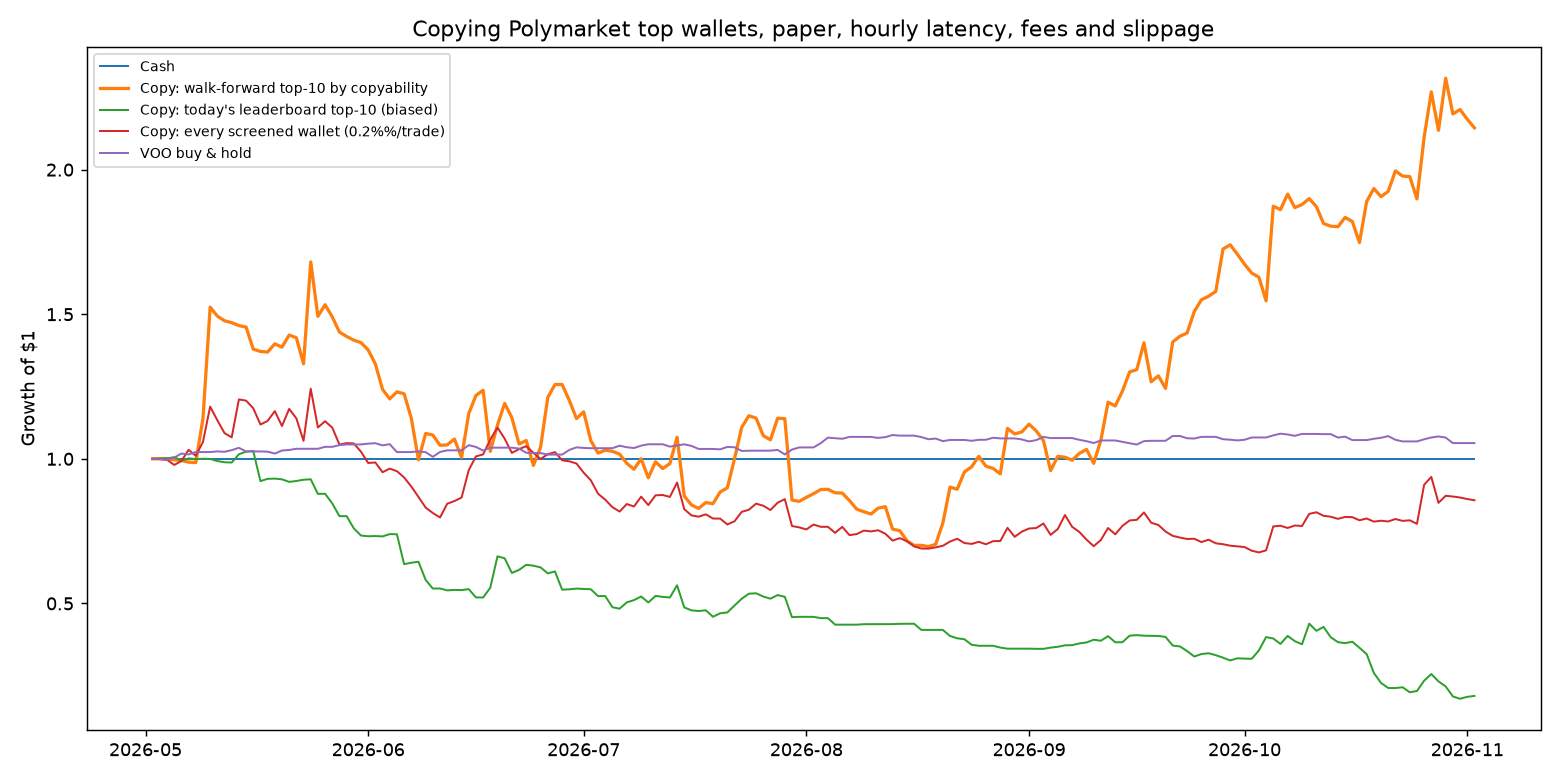
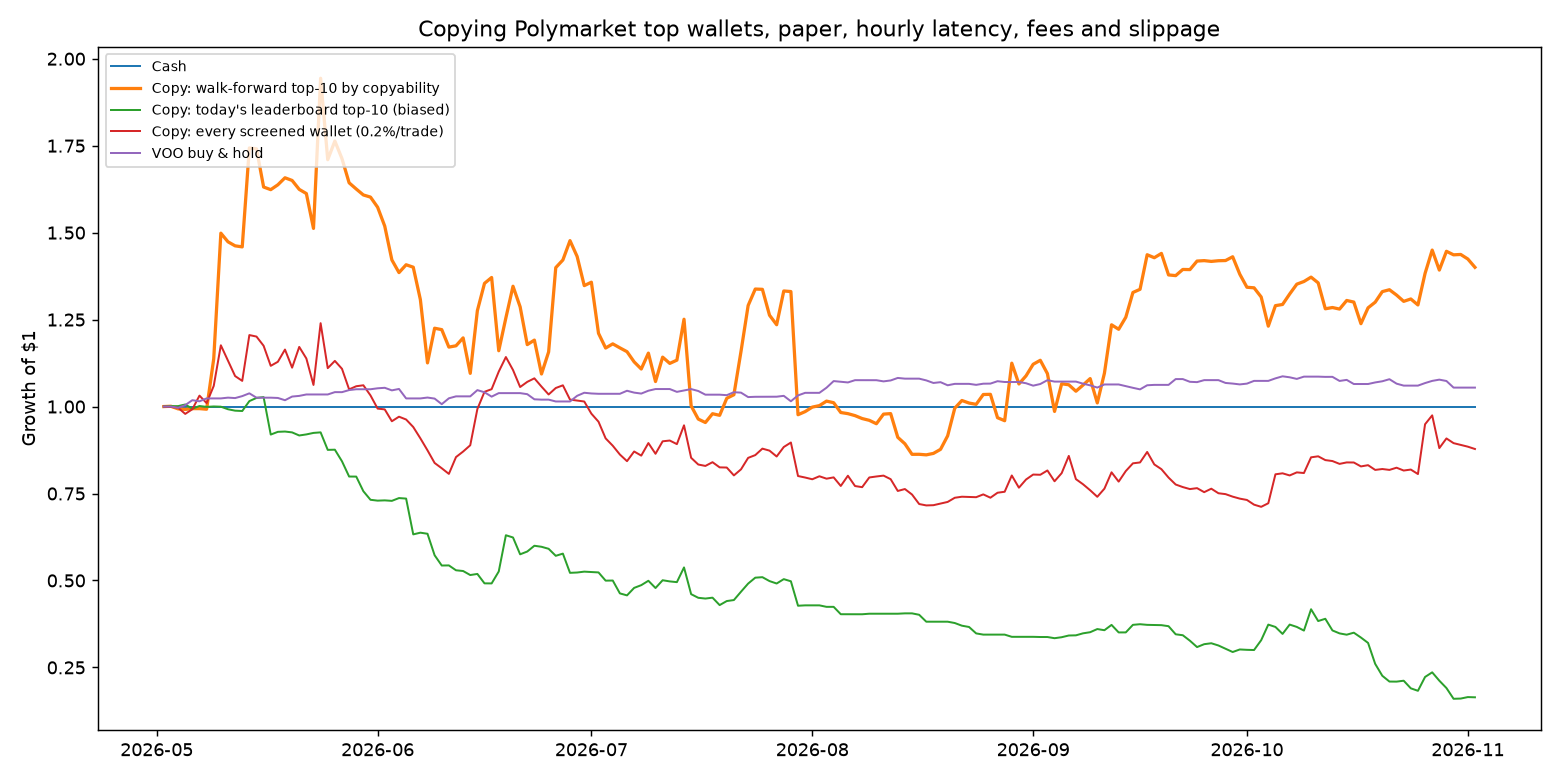
Document the copy-trading pipeline step by step and refresh backtest with the no-chase rule

diff --git a/09-python-polymarket-copy-trader/run_backtest.py b/09-python-polymarket-copy-trader/run_backtest.py
@@ -26,6 +26,7 @@ import pandas as pd
 from polycopy.api import PolymarketAPI
 from polycopy.backtest import PriceSource, simulate, summarize, format_summary, month_starts
 from polycopy.copy import CopyConfig, DEFAULT, Portfolio, LeaderBook
+from polycopy.analysis import wallet_profile, profile_line
 from polycopy.selection import score_wallets, choose, scores_table
 from polycopy.universe import build_universe, screen_universe, fetch_history
 
@@ -157,8 +158,11 @@ def main() -> None:
     for p in picks:
         print(f"   {p['month']}  scored {p['scored']:3d}  copied {p['copied_buys']:4d} buys  equity {p['equity_end']:>9,.0f}  follow: {', '.join(p['followed'])}")
     scores = score_wallets(histories, names, markets, prices, cfg, end_ts - cfg.lookback_days * 86400, end_ts, api=api)
+    today = scores_table(scores, 15)
+    today["their record (90d)"] = [profile_line(wallet_profile(api, [t for t in histories[s.wallet] if t["timestamp"] >= end_ts - cfg.lookback_days * 86400], markets))
+                                   for s in scores[:15]]
     print("\n  Who we would follow today (trailing %d days):" % cfg.lookback_days)
-    print(scores_table(scores, 15).to_string(index=False, float_format=lambda v: f"{v:.3f}"))
+    print(today.to_string(index=False, float_format=lambda v: f"{v:.3f}"))
 
     RESULTS.mkdir(exist_ok=True)
     md = ["# Polymarket copy-trading walk-forward backtest", "",
@@ -172,7 +176,9 @@ def main() -> None:
           "Skipped leader trades: " + ", ".join(f"{k} {v}" for k, v in sorted(skip_tot.items(), key=lambda kv: -kv[1])), "",
           "## Followed wallets by month", "", "| month | wallets scored | copied buys | equity at month end | followed |", "|---|---|---|---|---|",
           *[f"| {p['month']} | {p['scored']} | {p['copied_buys']} | {p['equity_end']:,.0f} | {', '.join(p['followed'])} |" for p in picks], "",
-          "## Who the rules would follow today", "", md_table(scores_table(scores, 15)), ""]
+          "## Who the rules would follow today", "",
+          "'copy return' is what copying the wallet under our rules would have made; 'their record' is what the wallet itself did.", "",
+          md_table(today), ""]
     (RESULTS / "polymarket_backtest.md").write_text("\n".join(md))
     pd.DataFrame(curves).to_csv(RESULTS / "polymarket_equity.csv")
     json.dump([f.__dict__ for f in wf_fills], open(RESULTS / "polymarket_fills.json", "w"), default=str)

diff --git a/09-python-polymarket-copy-trader/README.md b/09-python-polymarket-copy-trader/README.md
@@ -9,6 +9,20 @@ needs no keys and no money, and never places a real order.
 Sibling of the [TVM / Kronos stock paper trader](../08-python-paper-trading-strategy/);
 it reuses that project's notification channels.
 
+## The "Claude finds the Polymarket wallets that win" pipeline, built honestly
+
+The viral version of this idea has six screens. All six exist here, with
+real data behind them:
+
+| The post says | What this project does | Where |
+|---|---|---|
+| **Finds top wallets** - ranks public wallets by profit, win rate, consistency | Pulls the month / week / all-time / politics / sports leaderboards, screens out bots (>100 trades/day) and dormant accounts, then ranks by *copyability* (see below). Profit, win rate and consistency are computed and shown, but they are not the ranking key, because they are the leader's numbers, not yours | `polycopy/universe.py`, `polycopy/selection.py` |
+| **Studies how they trade** - history, win rate, position sizing, favourite markets | Per-wallet profile from their full trade history: win rate over decided markets, realised PnL, average position, profitable months, category mix (politics / sports / crypto / ...), biggest markets | `polycopy/analysis.py`; the "Their record" column of every report |
+| **Watches when they make a move** - new position / closed position feed | Every hour the job reads each followed wallet's new trades and logs them as *new position / added / reduced / closed*, with what we did about each one | `polycopy/paper.py` activity monitor; `state/activity.jsonl` |
+| **Doesn't copy every trade** - liquidity, volume, price change, size checks | Every BUY goes through an 11-point review: leader size, market type, price range, freshness, time to resolution, market liquidity, 24h volume, spread, price move since the leader's fill (no chasing), current price, our position-size room. The report shows each check's value and pass/fail | `polycopy/review.py`; "Trade review" section of the report |
+| **Copies approved positions** into a paper account | Fills walk the live order book, pay the market's taker fee, are sized at 1% of equity but never more than the leader's own notional; exits mirror the leader's; resolutions pay $1 / $0 | `polycopy/copy.py`, `polycopy/paper.py` |
+| **$2,000 -> $12,000 in one night** | No. See the backtest below for what the same idea does over six months with real prices, latency and fees. A 6x overnight is a creator-reported screenshot, not a strategy property; a backtest that produced numbers like that here turned out to be a fill-model bug | `results/polymarket_backtest.md` |
+
 ## The idea, and why naive copying loses
 
 Polymarket publishes every wallet's trades and a profit leaderboard, so
@@ -38,6 +52,8 @@ A wallet whose edge evaporates in an hour scores low no matter how rich it is.
 | Follow | top 10 by copyability score, re-picked monthly (weekly in the live job) | `copy return / max(2%, drawdown)` on the trailing 90 days |
 | Copy a BUY if | leader paid $25+, price in [0.03, 0.97], market ends 3h+ later, not an up/down or 5m/15m/1h market | skip dust, lottery tickets, near-certainties and markets we would enter after the fact |
 | Size | 1% of equity per copied buy, never more than the leader's own notional, max 5% of equity per market | we take at most the liquidity the leader took |
+| Don't chase | skip if the price is already more than 0.10 above the leader's fill | the edge was theirs at their price, not ours an hour later |
+| Live-only review | market liquidity >= $1,000, 24h volume >= $500, spread <= 0.05 | current values only exist for open markets, so the backtest cannot apply these; they only make the live account stricter |
 | Exit | mirror the fraction the leader sells; otherwise hold to resolution (paid $1 or $0) | copy the leader's exit decision, not our own |
 | Fill price | **backtest:** the worse of the leader's price and the first hourly print after 60 min, plus 0.01; **live:** walk the real order book | hourly prints of thin books can be absurd for a moment; assuming we filled there would turn the backtest into a lottery |
 
@@ -51,22 +67,25 @@ hourly price history for every market touched (fetched once, cached in
 
 | portfolio ($10,000 start) | total | vol | Sharpe | max DD |
 |---|---|---|---|---|
-| **Copy: walk-forward top-10 by copyability** | **+114%** | 128% | 1.80 | **-59%** |
-| Copy: today's leaderboard top-10 (knows who ended up rich) | -82% | 97% | -3.00 | -83% |
-| Copy: every screened wallet, 0.2% per trade | -14% | 74% | -0.05 | -46% |
+| **Copy: walk-forward top-10 by copyability** | **+40%** | 125% | 1.14 | **-56%** |
+| Copy: today's leaderboard top-10 (knows who ended up rich) | -84% | 97% | -3.20 | -84% |
+| Copy: every screened wallet, 0.2% per trade | -12% | 75% | 0.02 | -43% |
 | VOO buy & hold | +5% | 12% | 0.93 | -5% |
 
-1,930 copied buys, 744 positions carried to resolution (431 paid out), $2,070
-of fees on a $10k account.
+1,548 copied buys, 533 positions carried to resolution (293 paid out), $1,705
+of fees on a $10k account. Without the no-chasing rule (buy even if the price
+is already >0.10 above the leader's fill) the same run makes +114% with a
+-59% drawdown: the extra return comes from buying into news spikes, which
+worked in this window and is exactly the behaviour that eventually does not.
 
-**Read the +114% as "interesting", not as "expected".**
+**Read the +40% as "interesting", not as "expected".**
 
-- It is **lumpy**. The ten best positions made more than the whole net gain;
-  the single best was a leader putting $3,400 into *Russia x Ukraine ceasefire
-  by May 31* at 6 cents four days before it happened. We paid 7 cents. Five
-  of the top eight winners are geopolitical long shots like that.
-- It is **violent**. The account went $10k -> $15.8k -> $6.6k -> $20k, with
-  days of -25% and +34%. Max drawdown -59%. Scale `trade_fraction` down if that
+- It is **lumpy**. The ten best positions made several times the whole net
+  gain; the single best was a leader putting $3,400 into *Russia x Ukraine
+  ceasefire by May 31* at 6 cents four days before it happened. We paid 7
+  cents. Most of the top winners are geopolitical long shots like that.
+- It is **violent**. The account went $10k -> $17.8k -> $7.9k -> $12.8k, with
+  days of -27% and +32%. Max drawdown -56%. Scale `trade_fraction` down if that
   is not acceptable; the copied set is otherwise unchanged.
 - The **universe is survivor-biased**. Polymarket only publishes *today's*
   leaderboard, so even the walk-forward selection chooses among wallets that
@@ -99,8 +118,11 @@ runs the paper account on GitHub's servers, hourly.
    with the next hour; the first run picks the followed wallets, which takes
    a while (about 15 minutes of API paging, cached afterwards).
 3. **Done.** State lives on the `polymarket-copy-log` branch (`state.json`,
-   `fills.jsonl`); every Monday 06:00 UTC the followed set is re-picked; each
-   day after 20:00 UTC a status message goes out.
+   `fills.jsonl`, `activity.jsonl` with every leader trade seen and every
+   review); every Monday 06:00 UTC the followed set is re-picked; each day
+   after 20:00 UTC a status message goes out. Each run's page shows the
+   fills, the trade reviews (every check with its value), the hour's wallet
+   activity, open positions and the followed wallets' records.
 
 The daily message:
 
@@ -126,7 +148,7 @@ to see what that costs.
 ```bash
 cd 09-python-polymarket-copy-trader
 pip install -r requirements.txt
-python -m pytest -q                       # 19 tests, offline
+python -m pytest -q                       # 23 tests, offline
 
 python run_backtest.py                    # walk-forward backtest; first run fetches ~500 MB of history (20-30 min)
 python run_backtest.py --start 2026-07-01 --follow 5 --no-plot
@@ -144,9 +166,11 @@ file (`--config`) overriding any field of `CopyConfig`.
 polycopy/api.py        Polymarket data-api / CLOB / Gamma client with a disk cache
 polycopy/copy.py       CopyConfig, filters, sizing, Portfolio, LeaderBook, copy_trade()
 polycopy/universe.py   leaderboard universe and the trade-rate / dormancy screen
+polycopy/analysis.py   wallet profile: win rate, PnL, sizing, consistency, market categories
 polycopy/backtest.py   hourly-price replay, bulk prefetch, metrics
 polycopy/selection.py  copyability scoring and the follow set
-polycopy/paper.py      the hourly live tick (state, live books, marks, resolutions)
+polycopy/review.py     the per-trade checklist (liquidity, volume, spread, chase, size, ...)
+polycopy/paper.py      the hourly live tick (activity monitor, review, live books, marks, resolutions)
 polycopy/report.py     markdown / text status and notification plumbing
 run_backtest.py        walk-forward backtest + report + chart
 paper_trade.py         CLI used by the workflow
@@ -162,6 +186,11 @@ tests/                 offline tests with a fake API
 - **Hourly latency is a choice.** A websocket follower reacting in seconds
   would copy a different, larger set of trades; it would also pay more fees
   and chase more spikes. The backtest's `latency_min` lets you price that.
+- **Wallet profiles see CLOB trades only.** Splits, merges and early
+  redemptions are not trades, so a market maker who buys both sides and
+  merges them back to USDC looks like a total loss in "their record". The
+  copyability score is unaffected (it only ever copies trades), but read the
+  win-rate column as "how they trade", not as an audited P&L.
 - **Prediction-market P&L is binary and clustered.** A handful of resolutions
   decide a quarter. Compared with VOO this is a different kind of risk, not a
   scaled-up version of the same risk.

diff --git a/09-python-polymarket-copy-trader/results/polymarket_backtest.md b/09-python-polymarket-copy-trader/results/polymarket_backtest.md
@@ -5,43 +5,45 @@
 | portfolio | total | CAGR | vol | Sharpe | max DD |
 |---|---|---|---|---|---|
 | Cash | +0.0% | +0.0% | 0.0% | nan | 0.0% |
-| Copy: walk-forward top-10 by copyability | +114.5% | +354.2% | 128.1% | 1.80 | -58.6% |
-| Copy: today's leaderboard top-10 (biased) | -82.0% | -96.7% | 97.0% | -3.00 | -83.4% |
-| Copy: every screened wallet (0.2%%/trade) | -14.3% | -26.4% | 74.2% | -0.05 | -45.6% |
+| Copy: walk-forward top-10 by copyability | +40.0% | +95.0% | 125.1% | 1.14 | -55.7% |
+| Copy: today's leaderboard top-10 (biased) | -83.6% | -97.2% | 96.8% | -3.20 | -84.4% |
+| Copy: every screened wallet (0.2%/trade) | -12.2% | -22.7% | 74.9% | 0.02 | -42.6% |
 | VOO buy & hold | +5.4% | +11.1% | 12.1% | 0.93 | -4.5% |
 
-Walk-forward copy: 1930 buys, 311 sells, 744 resolutions (431 paid out), fees $2,070, realised PnL $7,986.
+Walk-forward copy: 1548 buys, 306 sells, 533 resolutions (293 paid out), fees $1,705, realised PnL $1,759.
 
-Skipped leader trades: dust 15181, ends too soon 6577, no cash 4869, market cap reached 3684, not holding 3485, price out of range 1080, no price 845, moved past max price 645, no end date 147
+Skipped leader trades: dust 13939, ends too soon 5232, no cash 3921, market cap reached 3502, not holding 3477, price out of range 1094, moved past max price 960, no price 845, no end date 147
 
 ## Followed wallets by month
 
 | month | wallets scored | copied buys | equity at month end | followed |
 |---|---|---|---|---|
-| 2026-05 | 10 | 78 | 12,971 | almost-never, surf, Kickstand7 |
-| 2026-06 | 12 | 884 | 10,954 | surf, almost-never, GCottrell93, ic4cream, 0xc8b9a30184244d427169cf62485dde6041b2b836 |
-| 2026-07 | 15 | 148 | 8,168 | surf, almost-never, GCottrell93, TheReturnOfDarthMaul, 0xc8b9a30184244d427169cf62485dde6041b2b836 |
-| 2026-08 | 17 | 175 | 10,552 | surf, 0xc8b9a30184244d427169cf62485dde6041b2b836, 0x006cc834Cc092684F1B56626E23BEdB3835c16ea-1729683673397, almost-never, ic4cream, TheReturnOfDarthMaul |
-| 2026-09 | 20 | 289 | 15,765 | 0xc8b9a30184244d427169cf62485dde6041b2b836, mr.ozi, 0x006cc834Cc092684F1B56626E23BEdB3835c16ea-1729683673397, ic4cream, TheReturnOfDarthMaul, almost-never, Kickstand7 |
-| 2026-10 | 25 | 345 | 20,490 | ArielFilipino, raybanman, 0x006cc834Cc092684F1B56626E23BEdB3835c16ea-1729683673397, mr.ozi, ic4cream, Bloodygoodrep1, TheReturnOfDarthMaul, 0xc8b9a30184244d427169cf62485dde6041b2b836, Kickstand7 |
-| 2026-11 | 35 | 11 | 20,209 | fzol, 88888x88888, sumolive, izcikagamoji, MKSafe, raybanman, ArielFilipino, Bloodygoodrep1, mr.ozi, TheReturnOfDarthMaul |
+| 2026-05 | 10 | 122 | 14,414 | almost-never, surf, Kickstand7, 0xc8b9a30184244d427169cf62485dde6041b2b836 |
+| 2026-06 | 12 | 860 | 12,439 | surf, almost-never, GCottrell93, ic4cream, 0xc8b9a30184244d427169cf62485dde6041b2b836 |
+| 2026-07 | 15 | 145 | 9,148 | surf, almost-never, GCottrell93, TheReturnOfDarthMaul, 0xc8b9a30184244d427169cf62485dde6041b2b836 |
+| 2026-08 | 17 | 76 | 10,277 | surf, 0xc8b9a30184244d427169cf62485dde6041b2b836, 0x006cc834Cc092684F1B56626E23BEdB3835c16ea-1729683673397, almost-never, TheReturnOfDarthMaul |
+| 2026-09 | 20 | 110 | 12,306 | 0xc8b9a30184244d427169cf62485dde6041b2b836, mr.ozi, 0x006cc834Cc092684F1B56626E23BEdB3835c16ea-1729683673397, TheReturnOfDarthMaul, almost-never, Kickstand7 |
+| 2026-10 | 24 | 224 | 13,050 | ArielFilipino, raybanman, mr.ozi, 0x006cc834Cc092684F1B56626E23BEdB3835c16ea-1729683673397, Bloodygoodrep1, TheReturnOfDarthMaul, ic4cream, 0xc8b9a30184244d427169cf62485dde6041b2b836, Kickstand7 |
+| 2026-11 | 33 | 11 | 12,831 | fzol, 88888x88888, sumolive, izcikagamoji, MKSafe, raybanman, ArielFilipino, Bloodygoodrep1, mr.ozi, TheReturnOfDarthMaul |
 
 ## Who the rules would follow today
 
-| wallet | copy return | max dd | copied buys | trades seen | score |
-|---|---|---|---|---|---|
-| fzol | 0.285 | -0.019 | 15 | 76 | 14.225 |
-| 88888x88888 | 0.189 | -0.021 | 18 | 265 | 9.100 |
-| sumolive | 0.138 | -0.030 | 15 | 531 | 4.545 |
-| izcikagamoji | 0.118 | -0.043 | 16 | 22 | 2.741 |
-| MKSafe | 0.060 | -0.025 | 90 | 827 | 2.409 |
-| raybanman | 0.137 | -0.088 | 63 | 3511 | 1.551 |
-| ArielFilipino | 0.483 | -0.316 | 461 | 1159 | 1.528 |
-| Bloodygoodrep1 | 0.129 | -0.091 | 69 | 4007 | 1.419 |
-| mr.ozi | 0.202 | -0.171 | 486 | 6912 | 1.177 |
-| TheReturnOfDarthMaul | 0.249 | -0.218 | 245 | 6048 | 1.143 |
-| Dragon-Evolution | 0.071 | -0.091 | 77 | 1204 | 0.784 |
-| 0xc8b9a30184244d427169cf62485dde6041b2b836 | 0.056 | -0.365 | 379 | 3087 | 0.153 |
-| ic4cream | 0.043 | -0.341 | 1619 | 5788 | 0.126 |
-| dromedaryy | -0.058 | -0.432 | 284 | 5527 | -0.134 |
-| 0x20D6436849F930584892730C7F96eBB2Ac763856-1768642056357 | -0.044 | -0.267 | 173 | 2203 | -0.164 |
+'copy return' is what copying the wallet under our rules would have made; 'their record' is what the wallet itself did.
+
+| wallet | copy return | max dd | copied buys | trades seen | score | their record (90d) |
+|---|---|---|---|---|---|---|
+| fzol | 0.285 | -0.019 | 15 | 76 | 14.225 | 60% win (5 decided), avg $6,968/market, 1/1 months up, mostly politics (100%) |
+| 88888x88888 | 0.189 | -0.021 | 18 | 265 | 9.100 | 100% win (1 decided), avg $72,667/market, 1/1 months up, mostly politics (100%) |
+| sumolive | 0.138 | -0.030 | 15 | 531 | 4.546 | 100% win (2 decided), avg $93,200/market, 1/1 months up, mostly politics (100%) |
+| izcikagamoji | 0.118 | -0.043 | 16 | 22 | 2.741 | 100% win (1 decided), avg $20,538/market, 1/1 months up, mostly politics (100%) |
+| MKSafe | 0.060 | -0.025 | 90 | 827 | 2.409 | 80% win (30 decided), avg $3,209/market, 1/1 months up, mostly politics (62%) |
+| raybanman | 0.137 | -0.088 | 63 | 3511 | 1.551 | 51% win (45 decided), avg $198,310/market, 1/3 months up, mostly sports (100%) |
+| ArielFilipino | 0.483 | -0.316 | 461 | 1159 | 1.528 | 62% win (177 decided), avg $15,708/market, 2/2 months up, mostly sports (100%) |
+| Bloodygoodrep1 | 0.129 | -0.091 | 69 | 4007 | 1.419 | 53% win (99 decided), avg $26,450/market, 2/3 months up, mostly sports (67%) |
+| TheReturnOfDarthMaul | 0.249 | -0.218 | 245 | 6048 | 1.143 | 76% win (33 decided), avg $129,417/market, 4/4 months up, mostly economics (84%) |
+| mr.ozi | 0.182 | -0.172 | 471 | 6912 | 1.059 | 79% win (124 decided), avg $21,192/market, 4/4 months up, mostly politics (55%) |
+| 0xc8b9a30184244d427169cf62485dde6041b2b836 | 0.369 | -0.362 | 378 | 3087 | 1.019 | 65% win (161 decided), avg $3,692/market, 3/4 months up, mostly politics (97%) |
+| Dragon-Evolution | 0.038 | -0.091 | 62 | 1204 | 0.422 | 77% win (22 decided), avg $59,756/market, 1/1 months up, mostly sports (100%) |
+| dromedaryy | 0.012 | -0.428 | 277 | 5527 | 0.028 | 43% win (102 decided), avg $29,177/market, 1/3 months up, mostly politics (69%) |
+| ic4cream | -0.081 | -0.408 | 1586 | 5788 | -0.199 | 57% win (1833 decided), avg $3,108/market, 3/4 months up, mostly sports (95%) |
+| 0x20D6436849F930584892730C7F96eBB2Ac763856-1768642056357 | -0.062 | -0.275 | 141 | 2203 | -0.226 | 53% win (194 decided), avg $5,597/market, 2/3 months up, mostly sports (95%) |
